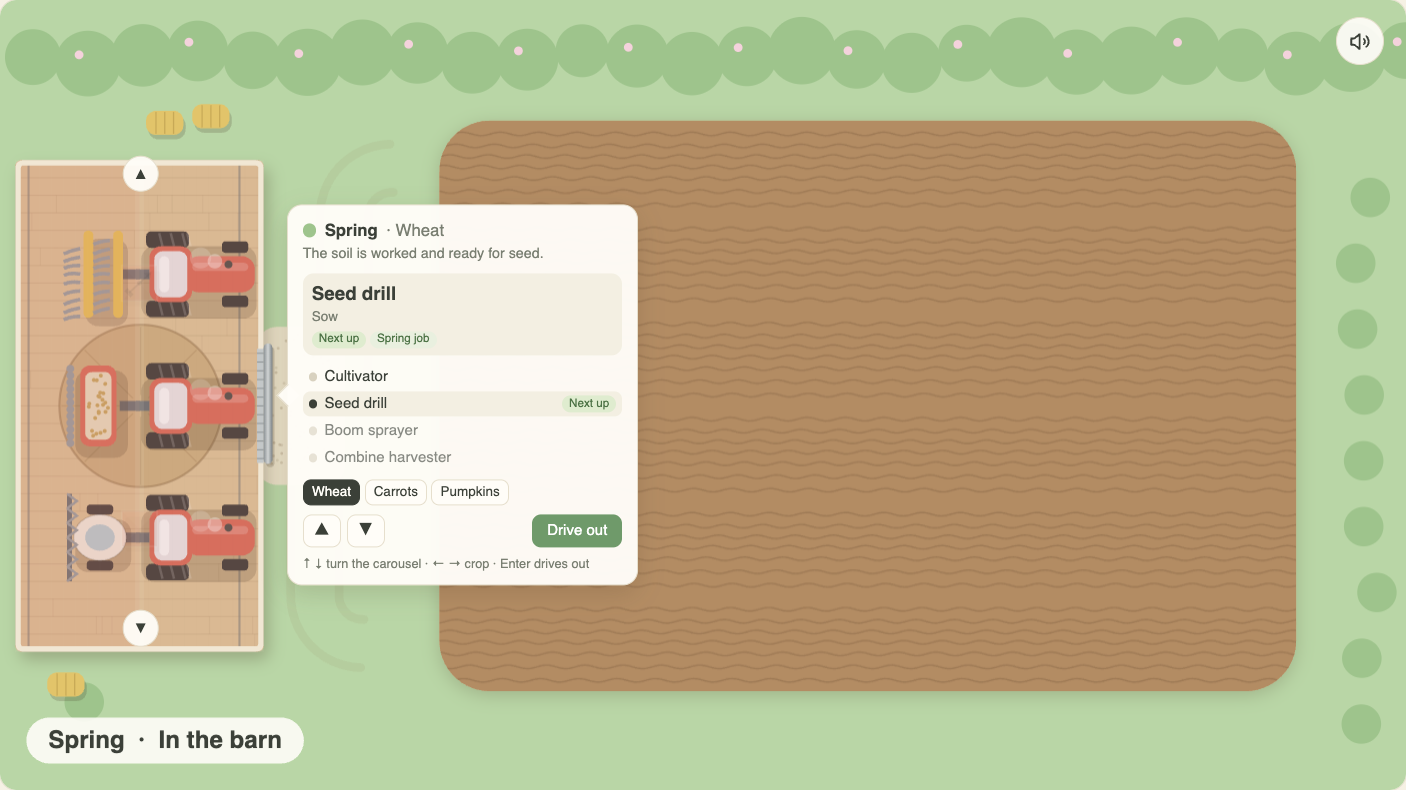
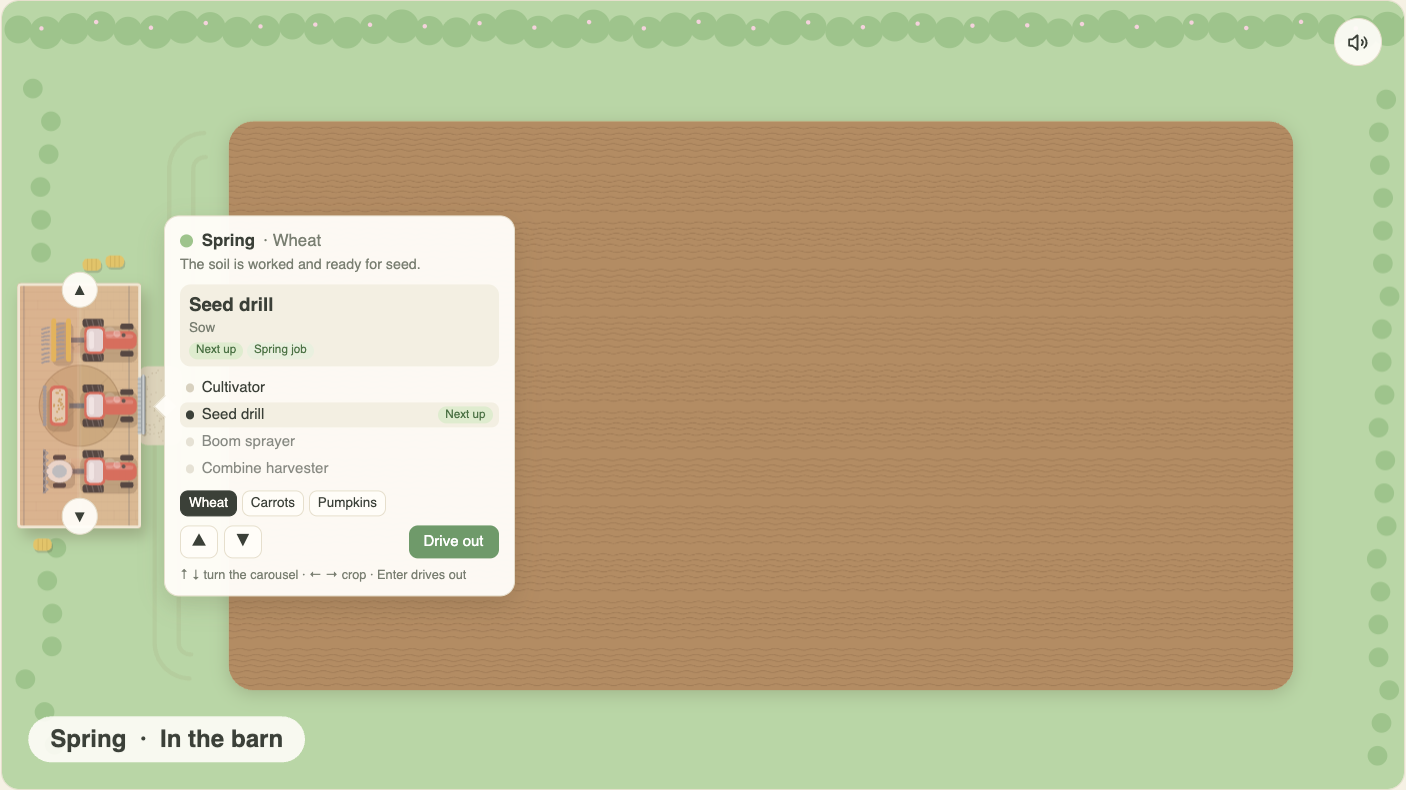
Refresh the screenshots for the half-scale farm and note ZOOM

Changed region(s): [[0.0, 0.0, 1.0, 1.0], [0.8869, 0.8506, 0.9175, 0.881], [0.8869, 0.1519, 0.9175, 0.1823]]

diff --git a/README.md b/README.md
@@ -60,12 +60,13 @@ The mute button in the top-right corner turns the sound on or off, and Furrow re
 ## Development
 
 ```sh
-npm test           # Vitest: season clock, soil and growth, barn rules, carousel, arrow keys, driving, save/load
+npm test           # Vitest: season clock, soil and growth, barn rules, carousel, arrow keys, driving, layout, save/load
 npm run lint       # ESLint
 npm run typecheck  # TypeScript
 ```
 
 - `src/game/` holds the pure game logic. It has no DOM access and is unit-tested.
+- `ZOOM` in `src/game/constants.ts` sets how large the farm is drawn, in screen pixels per world unit (0.5 now). Machines, the barn, plants, lanes and speeds are all in world units, so changing it rescales everything together and the field grows or shrinks to fill the view.
 - `src/draw/` holds the canvas drawings: the field, the machines and the barn.
 - `src/ui/` holds the barn label.
 - `src/audio.ts` holds the ambient sound.
